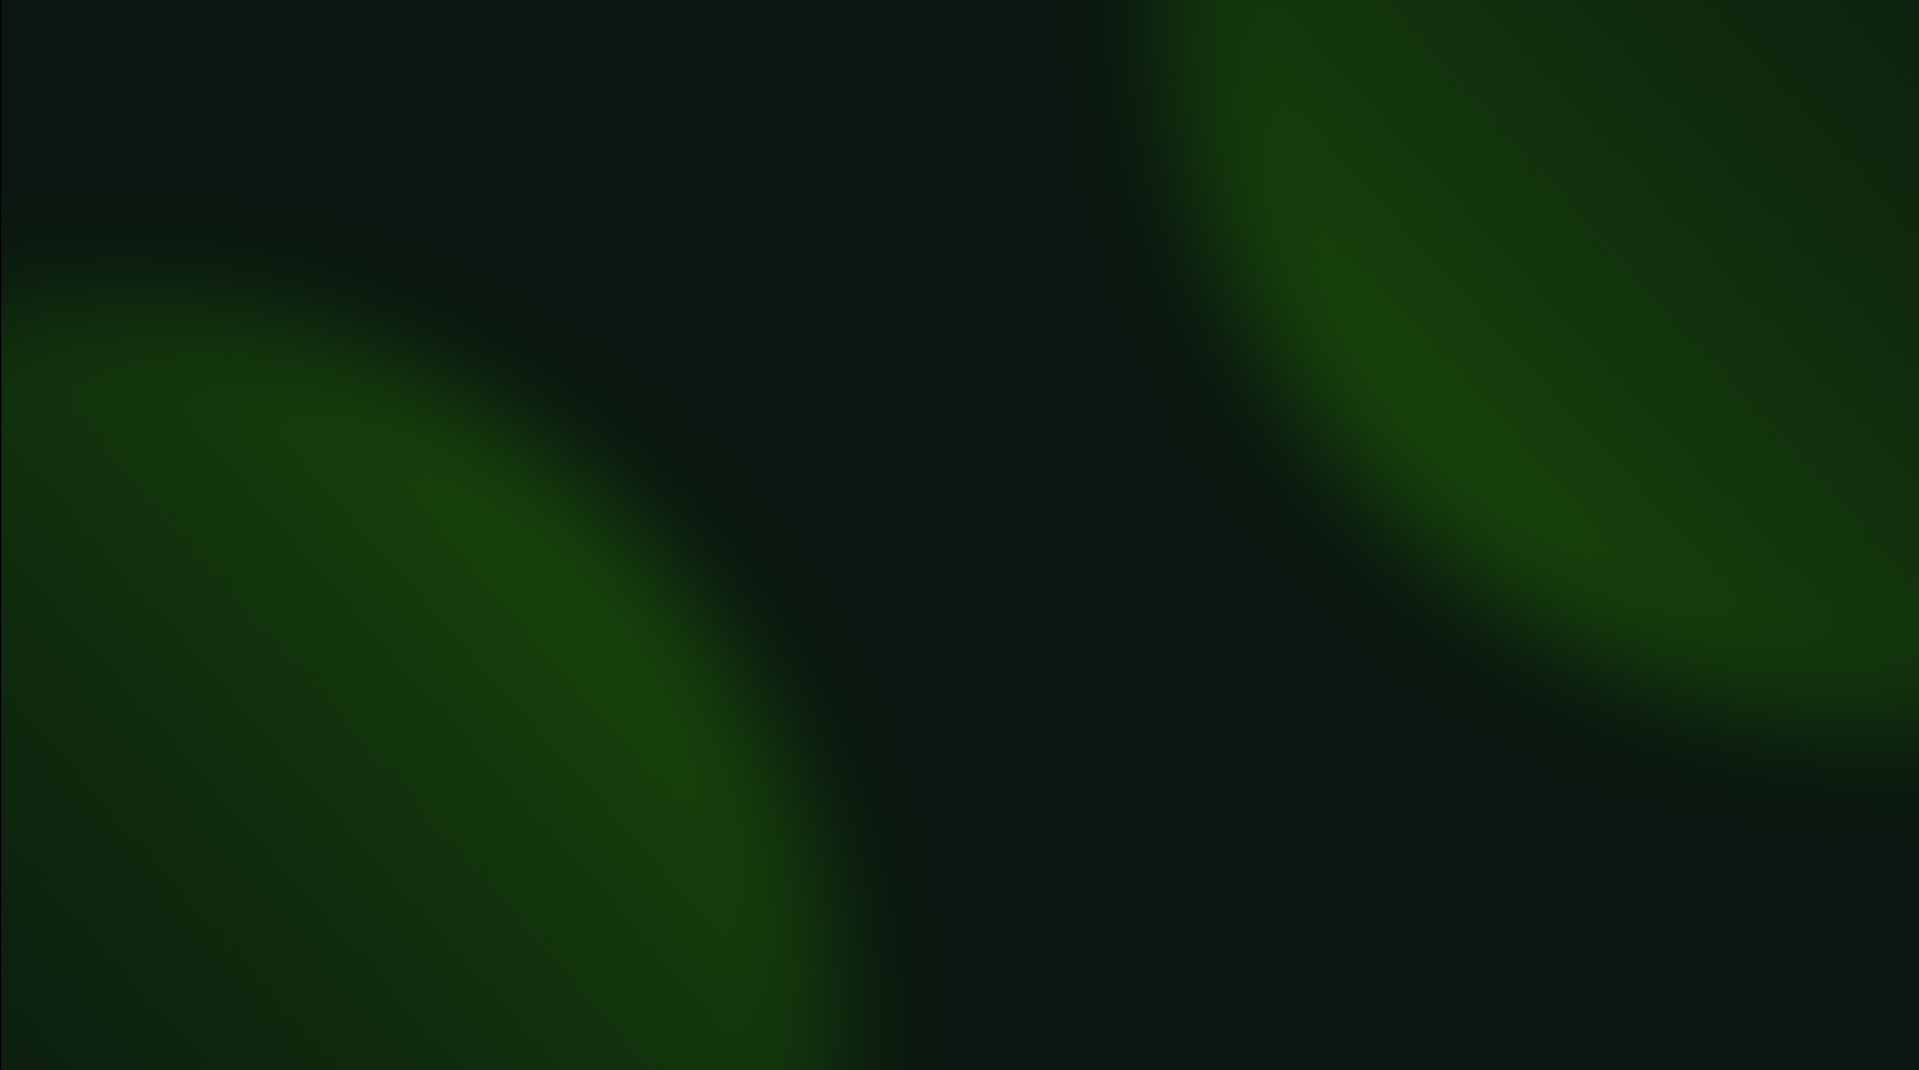
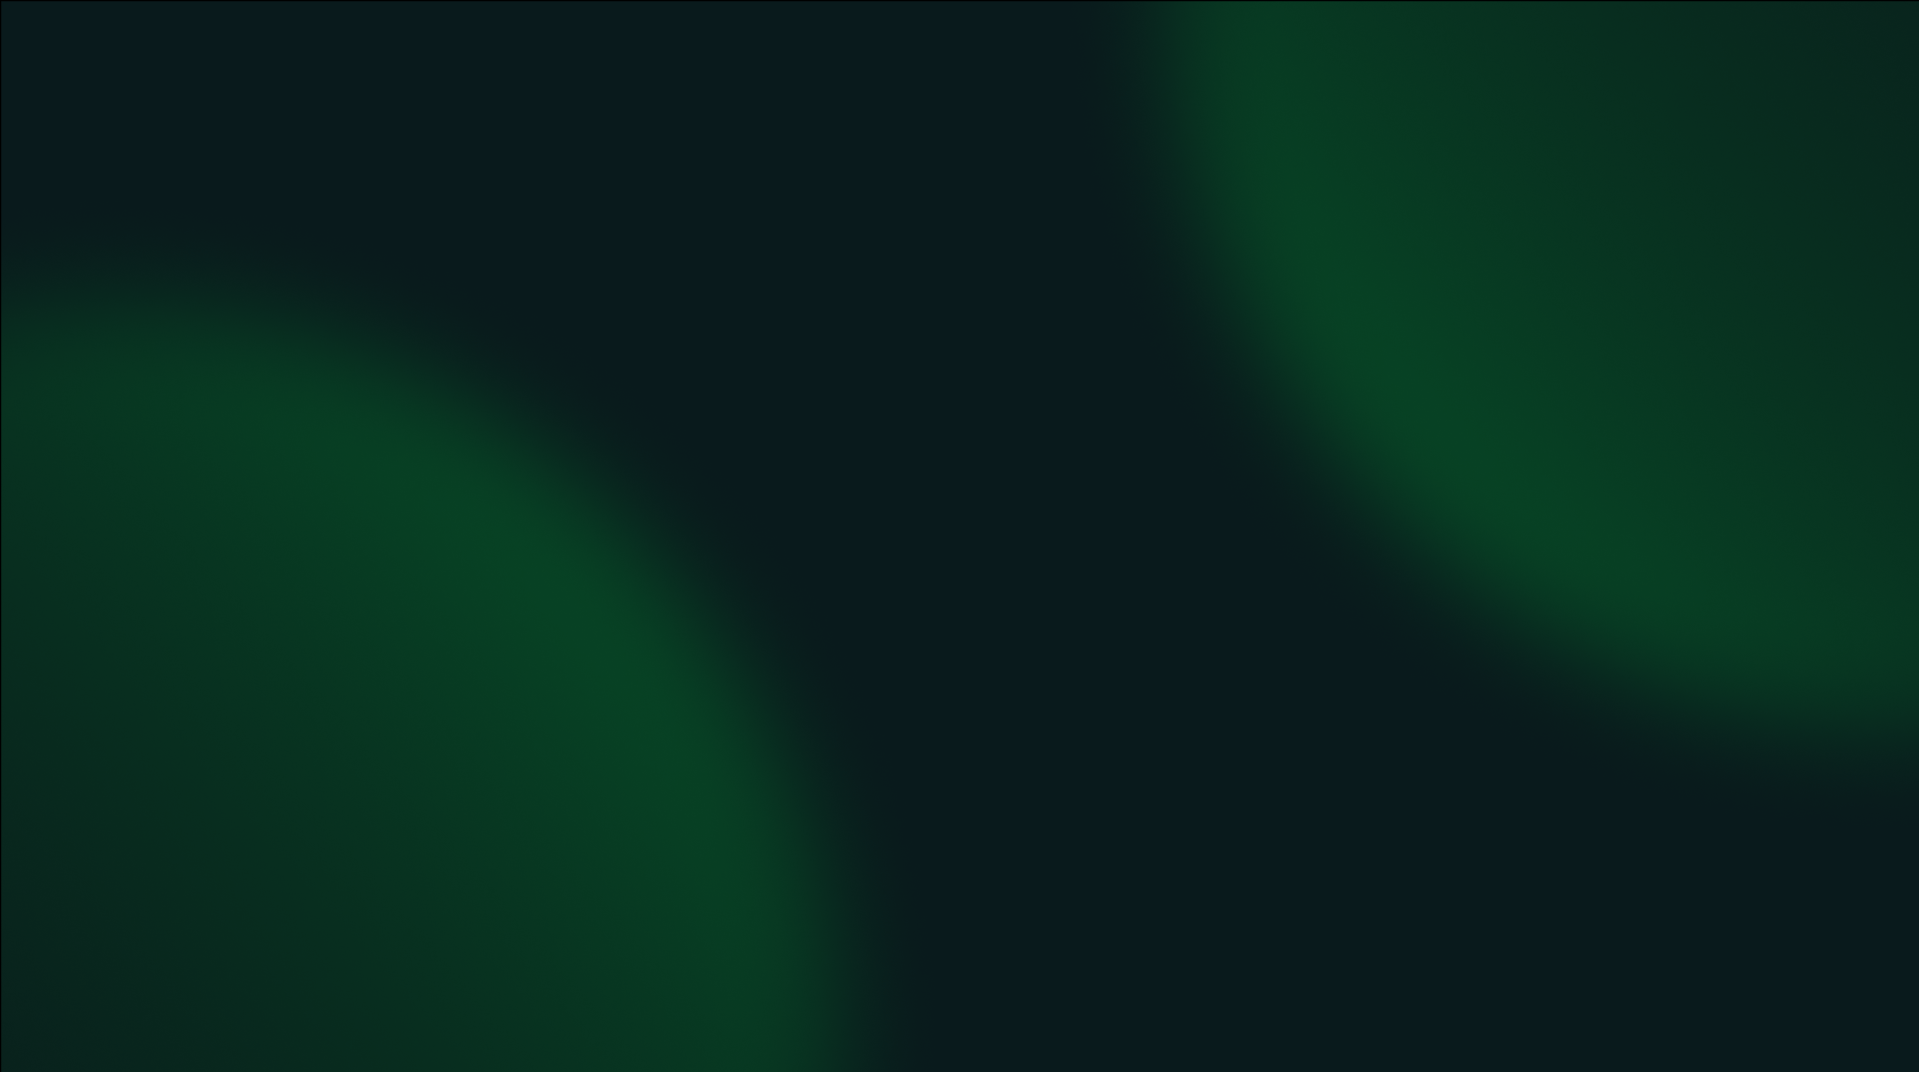
changes

Changed region(s): [[0.1845, 0.4318, 0.3689, 0.8019], [0.6764, 0.185, 0.8609, 0.5551]]

diff --git a/uda-frontend/src/components/GeneralScreen/WaterSolo.js b/uda-frontend/src/components/GeneralScreen/WaterSolo.js
@@ -3,7 +3,7 @@ import { supabase } from '../iot/WaterQuality/supabaseClient';
 import { toast, ToastContainer } from 'react-toastify';
 import 'react-toastify/dist/ReactToastify.css';
 import { Bar } from 'react-chartjs-2'; // Add Bar import
-import backgroundImage from '../../assets/waterdash2.png';
+import backgroundImage from '../../assets/waterdash.png';
 import ArrowLeftIcon from '@mui/icons-material/ArrowLeft';
 import ArrowRightIcon from '@mui/icons-material/ArrowRight';
 import {

diff --git a/uda-frontend/src/components/iot/WaterQuality/WaterQualityInstance.js b/uda-frontend/src/components/iot/WaterQuality/WaterQualityInstance.js
@@ -5,7 +5,7 @@ import 'react-toastify/dist/ReactToastify.css';
 import { supabase } from './supabaseClient';
 import { CircularProgressbar, buildStyles } from 'react-circular-progressbar';
 import 'react-circular-progressbar/dist/styles.css';
-import backgroundImage from '../../../assets/waterdash2.png';
+import backgroundImage from '../../../assets/waterdash.png';
 import { useNavigate } from 'react-router-dom';
 // import Sidebar from '../../Sidebar';
 

diff --git a/uda-frontend/src/components/iot/WaterQuality/WaterQualityByDate.js b/uda-frontend/src/components/iot/WaterQuality/WaterQualityByDate.js
@@ -5,7 +5,7 @@ import { supabase } from './supabaseClient';
 import { toast, ToastContainer } from 'react-toastify';
 import 'react-toastify/dist/ReactToastify.css';
 import { Line } from 'react-chartjs-2';
-import backgroundImage from '../../../assets/waterdash2.png';
+import backgroundImage from '../../../assets/waterdash.png';
 import Calendar from 'react-calendar';
 import 'react-calendar/dist/Calendar.css';
 import {

diff --git a/uda-frontend/src/components/iot/WaterQuality/WaterDashboard.js b/uda-frontend/src/components/iot/WaterQuality/WaterDashboard.js
@@ -5,7 +5,7 @@ import 'react-toastify/dist/ReactToastify.css';
 import { Bar } from 'react-chartjs-2';
 import { useNavigate } from 'react-router-dom';
 // import Sidebar from '../../Sidebar';
-import backgroundImage from '../../../assets/waterdash2.png';
+import backgroundImage from '../../../assets/waterdash.png';
 import {
     Chart as ChartJS,
     CategoryScale,
